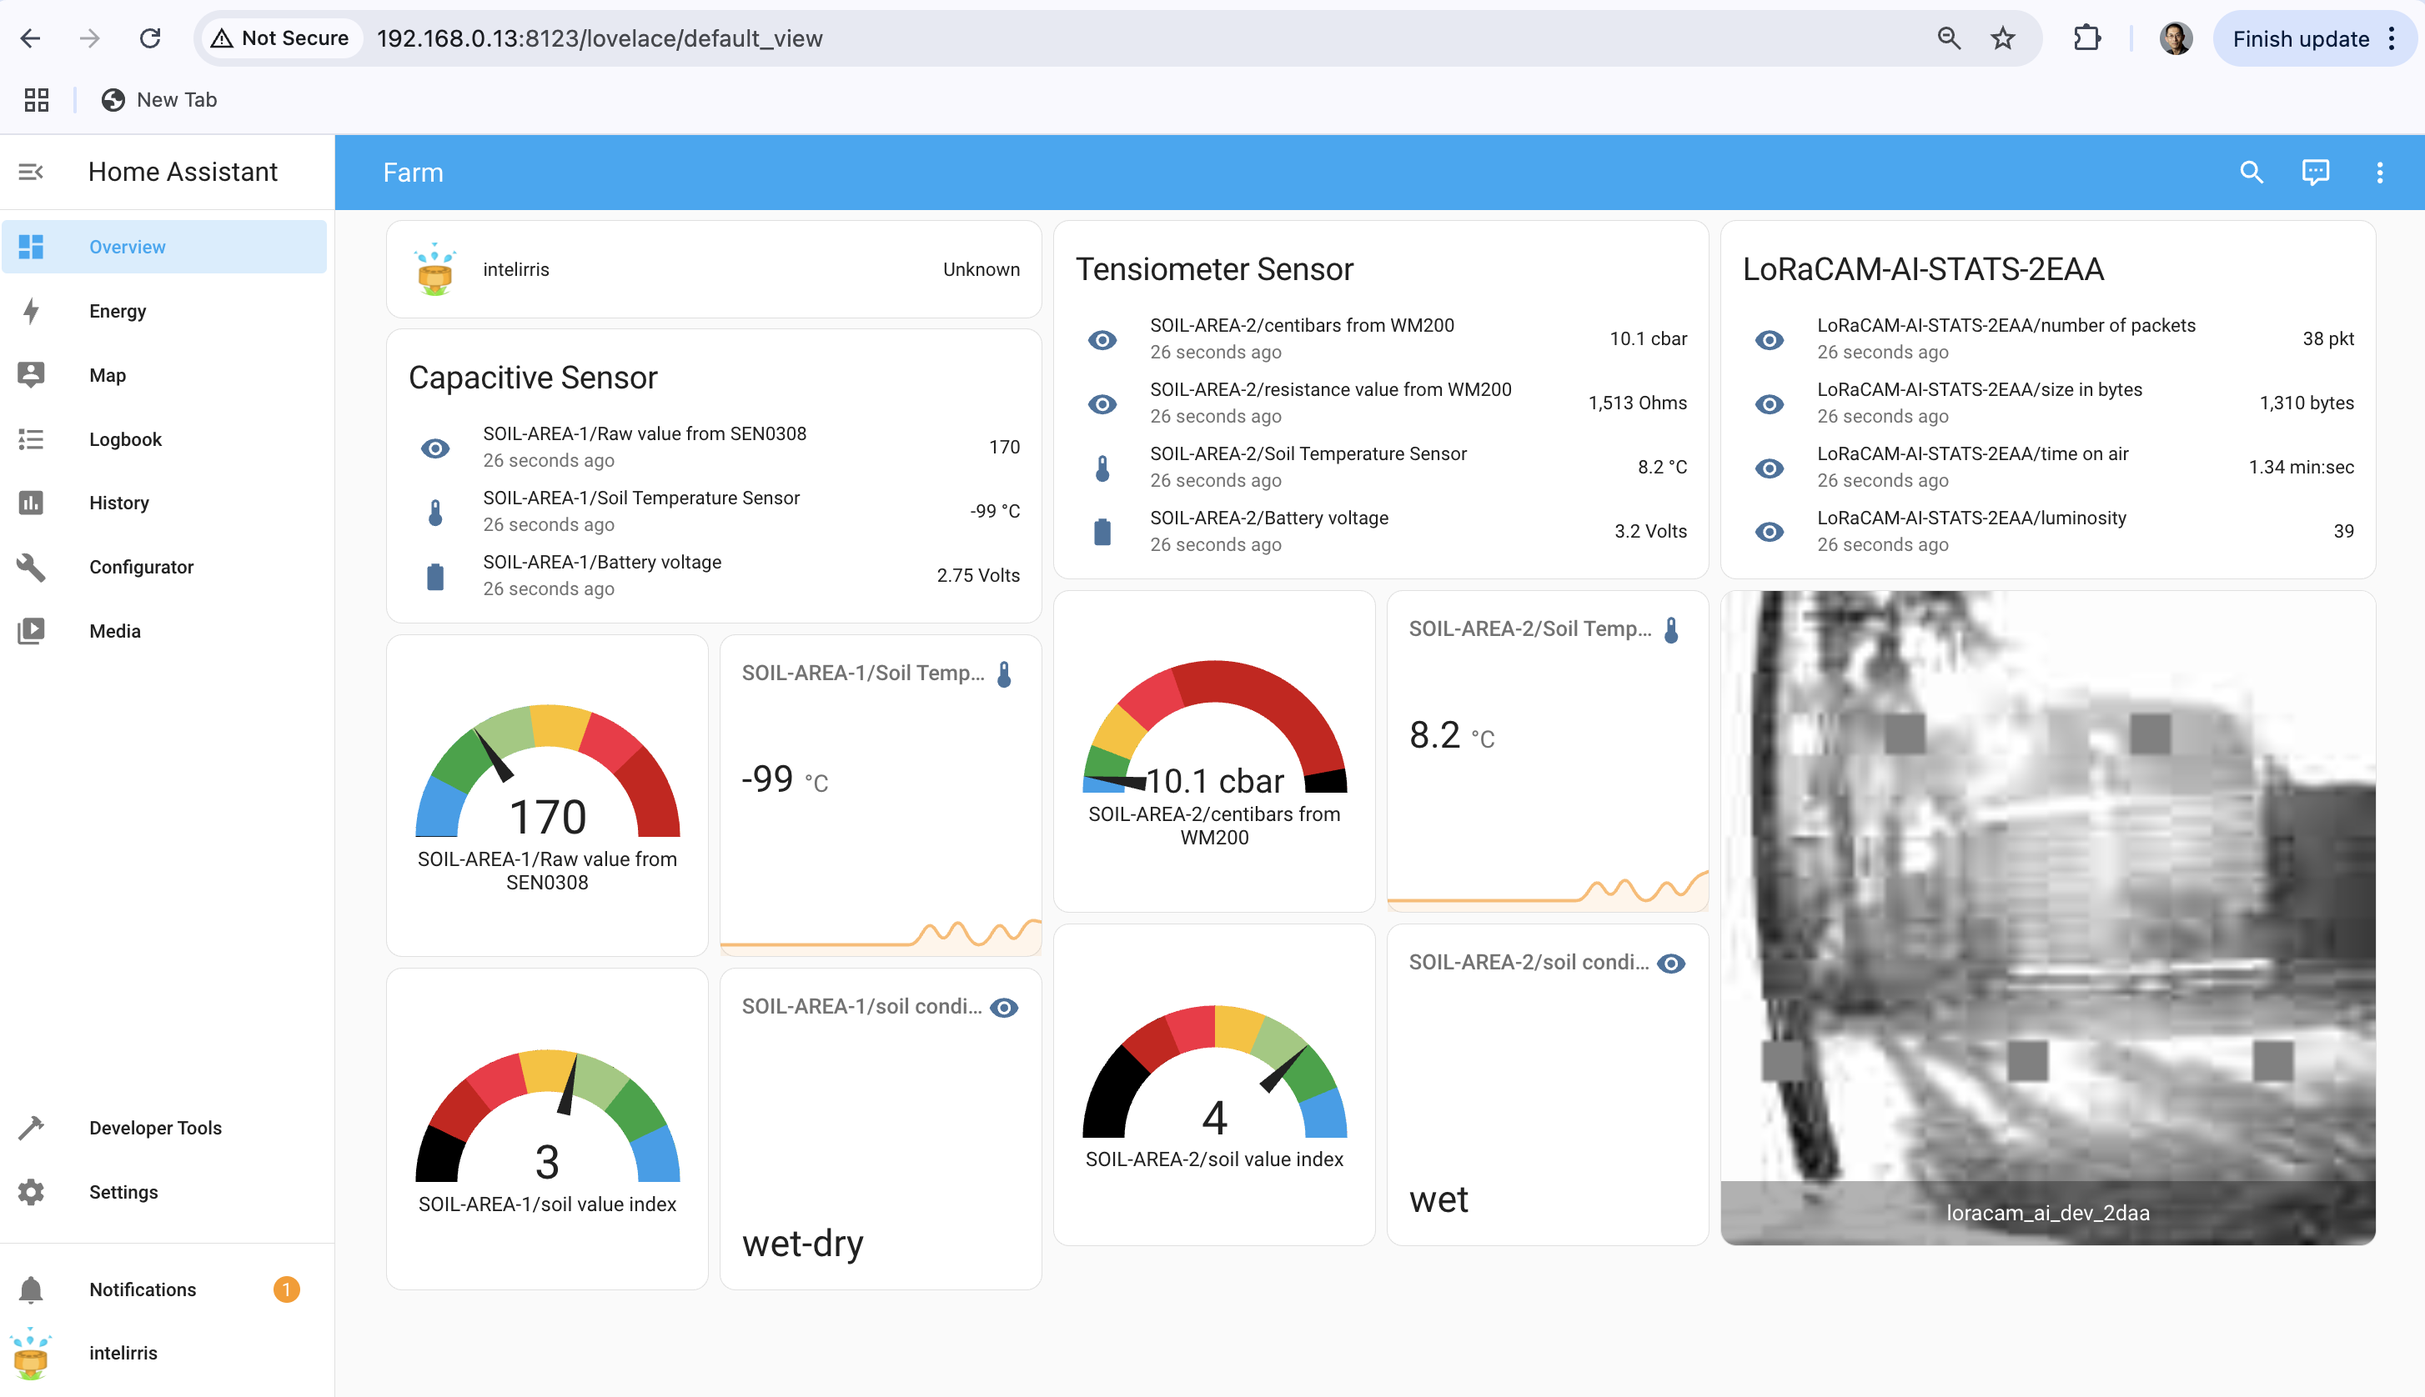
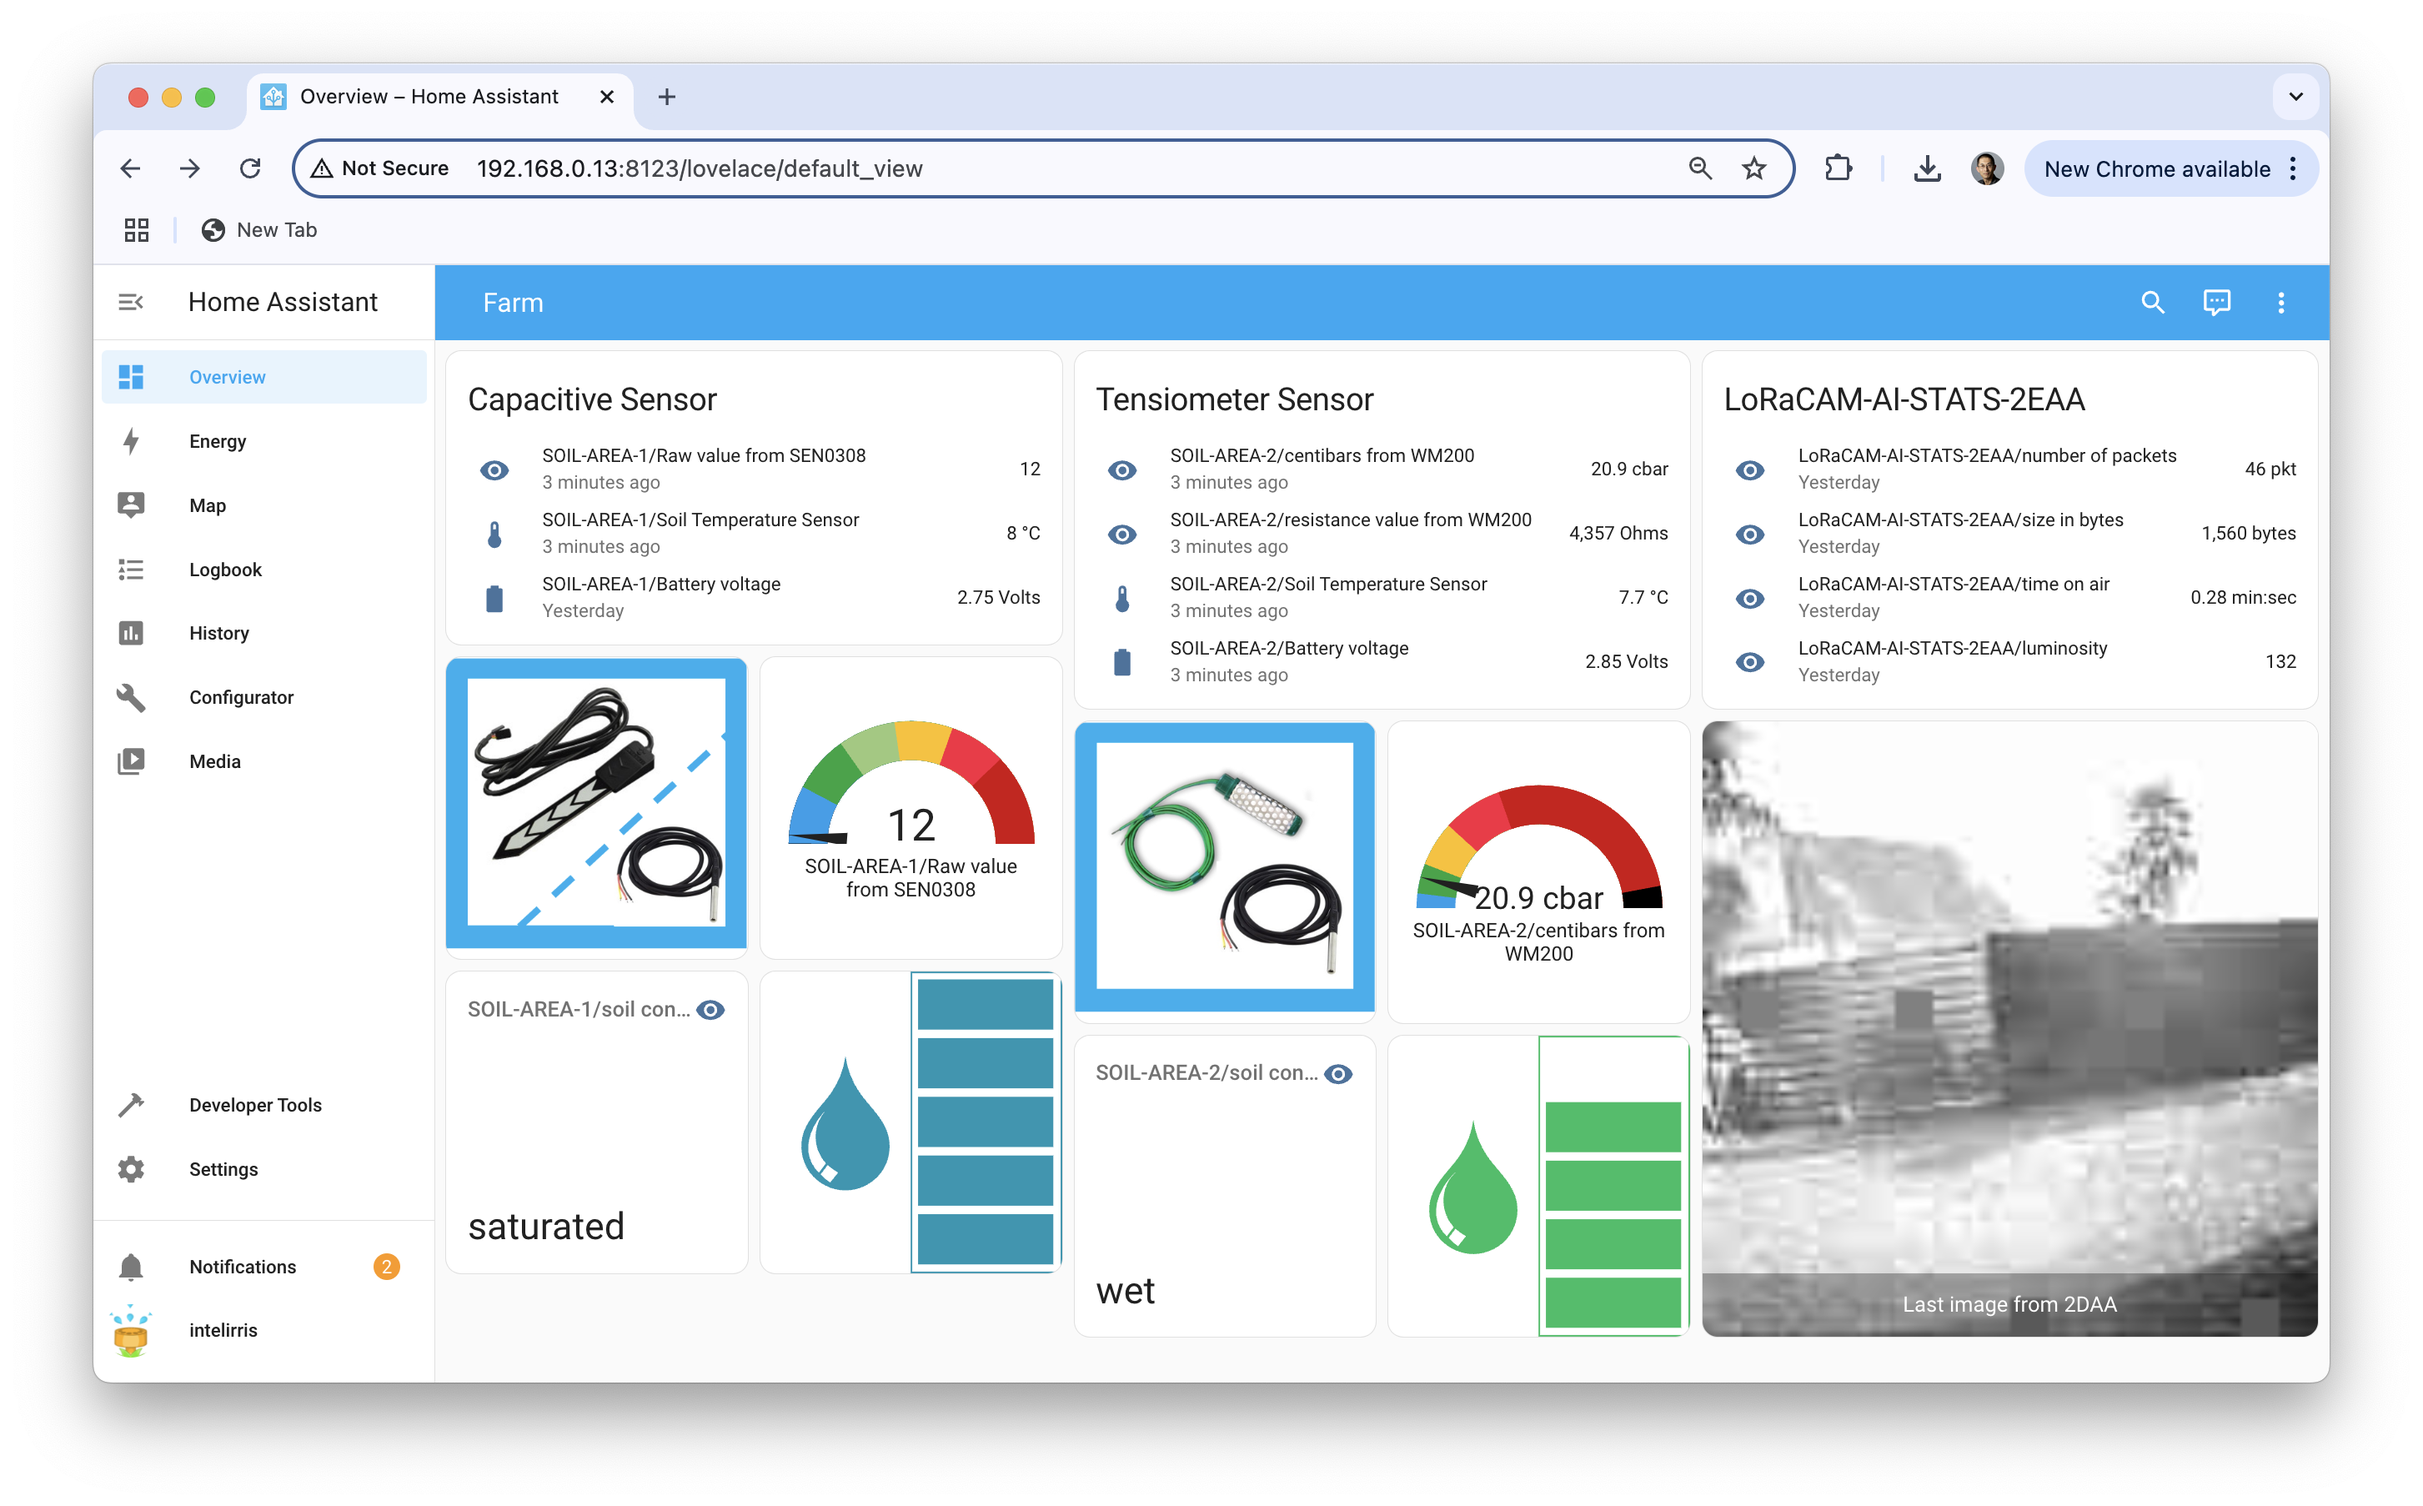
Update Home Assistant view

diff --git a/Arduino_ESP32/Arduino_ESP32_LoRaCAM_AI_on_esp32v3/custom_cam.cpp b/Arduino_ESP32/Arduino_ESP32_LoRaCAM_AI_on_esp32v3/custom_cam.cpp
@@ -335,18 +335,14 @@ void SendPacket() {
 
 #ifdef DISPLAY_PKT
     Serial.print(F("00"));
-    Serial.print(packetsize + 2, HEX);
+    Serial.printf("%.2X", packetsize + 2);
     Serial.print(F(" "));
     Serial.print(F("00 "));
-    if (packetoffset < 0x10) Serial.print(F("0"));
-    Serial.print(packetoffset, HEX);
+    Serial.printf("%.2X", packetoffset);
 
     for (int x = 0; x < packetsize; x++) {
         Serial.print(F(" "));
-
-        if (packet[x] < 0x10) Serial.print(F("0"));
-
-        Serial.print(packet[x], HEX);
+        Serial.printf("%.2X", packet[x]);
     }
     Serial.println(F(" "));
 #endif
@@ -363,7 +359,7 @@ void SendPacket() {
 
             if ((now_millis - lastSentTime) < inter_binary_pkt) {
                 unsigned long w = inter_binary_pkt - (now_millis - lastSentTime);
-                Serial.printf("Wait for %ld", w);
+                Serial.printf("Wait for %ld\n", w);
 #ifdef DELAY_WITH_LIGHT_SLEEP                
                 Serial.flush();
                 esp_sleep_enable_timer_wakeup(w*1000L);
@@ -428,8 +424,7 @@ void SendPacket() {
 
 #ifdef DISPLAY_PKT
         for (int x = 0; x < dataSize + packetsize; x++) {
-            if (myBuff[x] < 0x10) Serial.print(F("0"));
-            Serial.print(myBuff[x], HEX);
+            Serial.printf("%.2X", myBuff[x]);
         }
         Serial.println("");
 
@@ -521,26 +516,24 @@ void SendPacket() {
         lastSentTime = startSendTime;
 #endif // WITH_LORA_MODULE
 
-#ifdef DISPLAY_PKT
-
-        Serial.print(F("Packet Sent in "));
         lastSendDuration = stopSendTime - startSendTime;
-        Serial.println(lastSendDuration);
-
-#ifdef WITH_LORA_MODULE
-        //TODO: something else to do?
-#endif
-#endif
 
 #ifdef DISPLAY_PACKETIZATION_SEND_STATS
-        Serial.print(packetsize);
-        Serial.print(" ");
-        Serial.println(stopSendTime - startSendTime);
+        Serial.print(F("Packet Sent in "));
+        Serial.println(lastSendDuration);
 #endif
     }
 
     count += packetsize;
     packetcount++;
+    
+    // we adjust the waiting time to be twice the packet transmission time
+    // will be reset to DEFAULT_INTER_PKT_TIME for next image
+    // TODO: can certainly be improved
+    if (lastSendDuration < 1000)
+      inter_binary_pkt = DEFAULT_INTER_PKT_TIME / 2;
+    else if (lastSendDuration < 2200)
+      inter_binary_pkt = DEFAULT_INTER_PKT_TIME - 1000;
 }
 
 int FillPacket(int Block[8][8], bool *full) {
@@ -602,9 +595,7 @@ int FillPacket(int Block[8][8], bool *full) {
 
     for (int x = 0; x < packetsize; x++) {
 #ifdef DISPLAY_FILLPKT
-        if (buffer[x] < 0x10) Serial.print(F("0"));
-
-        Serial.print(buffer[x], HEX);
+        Serial.printf("%.2X", buffer[x]);
         Serial.print(F(" "));
 #endif
         packet[x] = buffer[x];
@@ -642,6 +633,8 @@ int encode_ucam_file_data() {
     packetcount = 0L;
     count = 0L;    
     totalPacketizationDuration = 0;
+    // reset for a new image
+    inter_binary_pkt = DEFAULT_INTER_PKT_TIME;    
 
     Serial.print(F("Encoding picture data, Quality Factor is : "));
     Serial.println(QualityFactor);
@@ -685,10 +678,7 @@ int encode_ucam_file_data() {
             for (i = 0; i < 8; i++) {
                 for (j = 0; j < 8; j++) {
                     Block[i][j] = (int)inImage.data[row_mix + i][col_mix + j];
-
-                    if (Block[i][j] < 0x10) Serial.print(F("0"));
-
-                    Serial.print(Block[i][j], HEX);
+                    Serial.printf("%.2X", Block[i][j]);
                     Serial.print(F(" "));
                 }
                 Serial.println("");
@@ -1002,18 +992,14 @@ unsigned int JPEGpacketization(OutImageStruct *InputImage, unsigned int BlockOff
 
 #ifdef DISPLAY_PKT
     Serial.print(F("00"));
-    Serial.print(packetsize + 2, HEX);
+    Serial.printf("%.2X", packetsize + 2);
     Serial.print(F(" "));
     Serial.print(F("00 "));
-    if (packetoffset < 0x10) Serial.print(F("0"));
-    Serial.print(packetoffset, HEX);
+    Serial.printf("%.2X", packetoffset);
 
     for (int x = 0; x < packetsize; x++) {
         Serial.print(F(" "));
-
-        if (packet[x] < 0x10) Serial.print(F("0"));
-
-        Serial.print(packet[x], HEX);
+        Serial.printf("%.2X", packet[x]);
     }
     Serial.println(F(" "));
 #endif
@@ -1034,7 +1020,7 @@ unsigned int JPEGpacketization(OutImageStruct *InputImage, unsigned int BlockOff
 
             if ((now_millis - lastSentTime) < inter_binary_pkt) {
                 unsigned long w = inter_binary_pkt - (now_millis - lastSentTime);
-                Serial.printf("Wait for %ld", w);
+                Serial.printf("Wait for %ld\n", w);
 #ifdef DELAY_WITH_LIGHT_SLEEP                
                 Serial.flush();
                 esp_sleep_enable_timer_wakeup(w*1000L);
@@ -1087,8 +1073,7 @@ unsigned int JPEGpacketization(OutImageStruct *InputImage, unsigned int BlockOff
 
 #ifdef DISPLAY_PKT
         for (int x = 0; x < dataSize + packetsize; x++) {
-            if (myBuff[x] < 0x10) Serial.print("0");
-            Serial.print(myBuff[x], HEX);
+            Serial.printf("%.2X", myBuff[x]);
         }
         Serial.println("");
 
@@ -1179,26 +1164,24 @@ unsigned int JPEGpacketization(OutImageStruct *InputImage, unsigned int BlockOff
         lastSentTime = startSendTime;
 #endif // WITH_LORA_MODULE
 
-#ifdef DISPLAY_PKT
-
-        Serial.print(F("Packet Sent in "));
         lastSendDuration = stopSendTime - startSendTime;
-        Serial.println(lastSendDuration);
-
-#ifdef WITH_LORA_MODULE
-        //TODO: something else to do?
-#endif
-#endif
 
 #ifdef DISPLAY_PACKETIZATION_SEND_STATS
-        Serial.print(packetsize);
-        Serial.print(" ");
-        Serial.println(stopSendTime - startSendTime);
+        Serial.print(F("Packet Sent in "));
+        Serial.println(lastSendDuration);
 #endif
     }
 
     count += packetsize;
     packetcount++;
+
+    // we adjust the waiting time to be twice the packet transmission time
+    // will be reset to DEFAULT_INTER_PKT_TIME for next image
+    // TODO: can certainly be improved
+    if (lastSendDuration < 1000)
+      inter_binary_pkt = DEFAULT_INTER_PKT_TIME / 2;
+    else if (lastSendDuration < 2200)
+      inter_binary_pkt = DEFAULT_INTER_PKT_TIME - 1000;
 
     return (BlockOffset);
 }
@@ -1217,6 +1200,8 @@ int encode_ucam_file_data() {
     // reset
     packetcount = 0L;
     count = 0L;
+    // reset for a new image
+    inter_binary_pkt = DEFAULT_INTER_PKT_TIME;
 
     Serial.print(F("Encoding picture data, Quality Factor is : "));
     Serial.println(QualityFactor);

diff --git a/Arduino_ESP32/Arduino_ESP32_LoRaCAM_AI_on_esp32v3/custom_cam.h b/Arduino_ESP32/Arduino_ESP32_LoRaCAM_AI_on_esp32v3/custom_cam.h
@@ -54,11 +54,10 @@ extern void blinkLed(uint8_t n, uint16_t t);
 #define DISPLAY_PKT
 //#define DISPLAY_FILLPKT
 //#define DISPLAY_BLOCK
-//#define DISPLAY_PGM
 // get and print stats for image encoding
 #define DISPLAY_ENCODE_STATS
 // get and print stats for each packet sent
-//#define DISPLAY_PACKETIZATION_SEND_STATS
+#define DISPLAY_PACKETIZATION_SEND_STATS
 // get and print stats for eack packet packetized
 //#define DISPLAY_PACKETIZATION_STATS
 // will periodically take a snapshot and transmit the image
